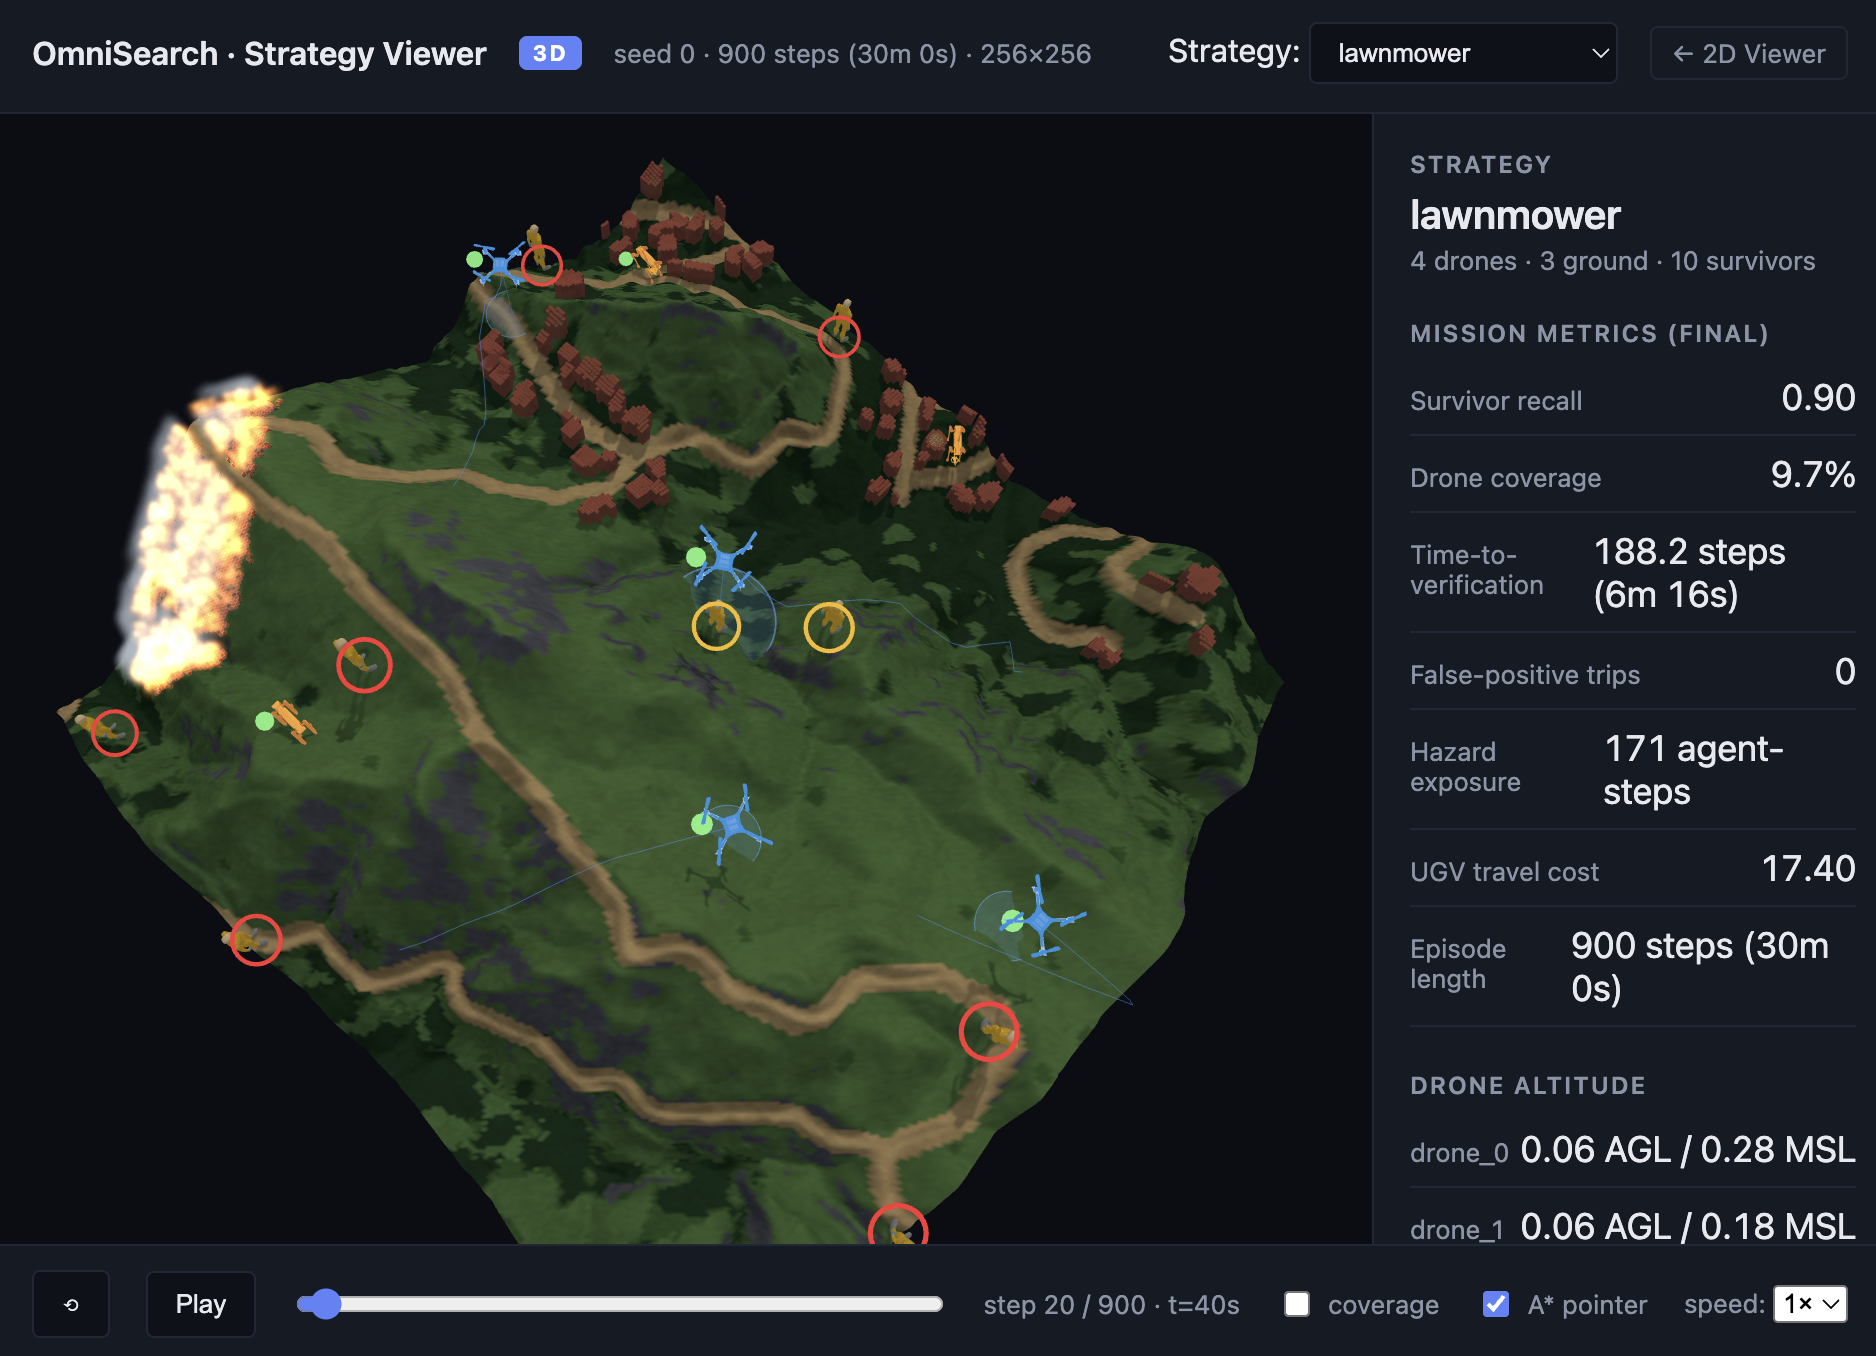
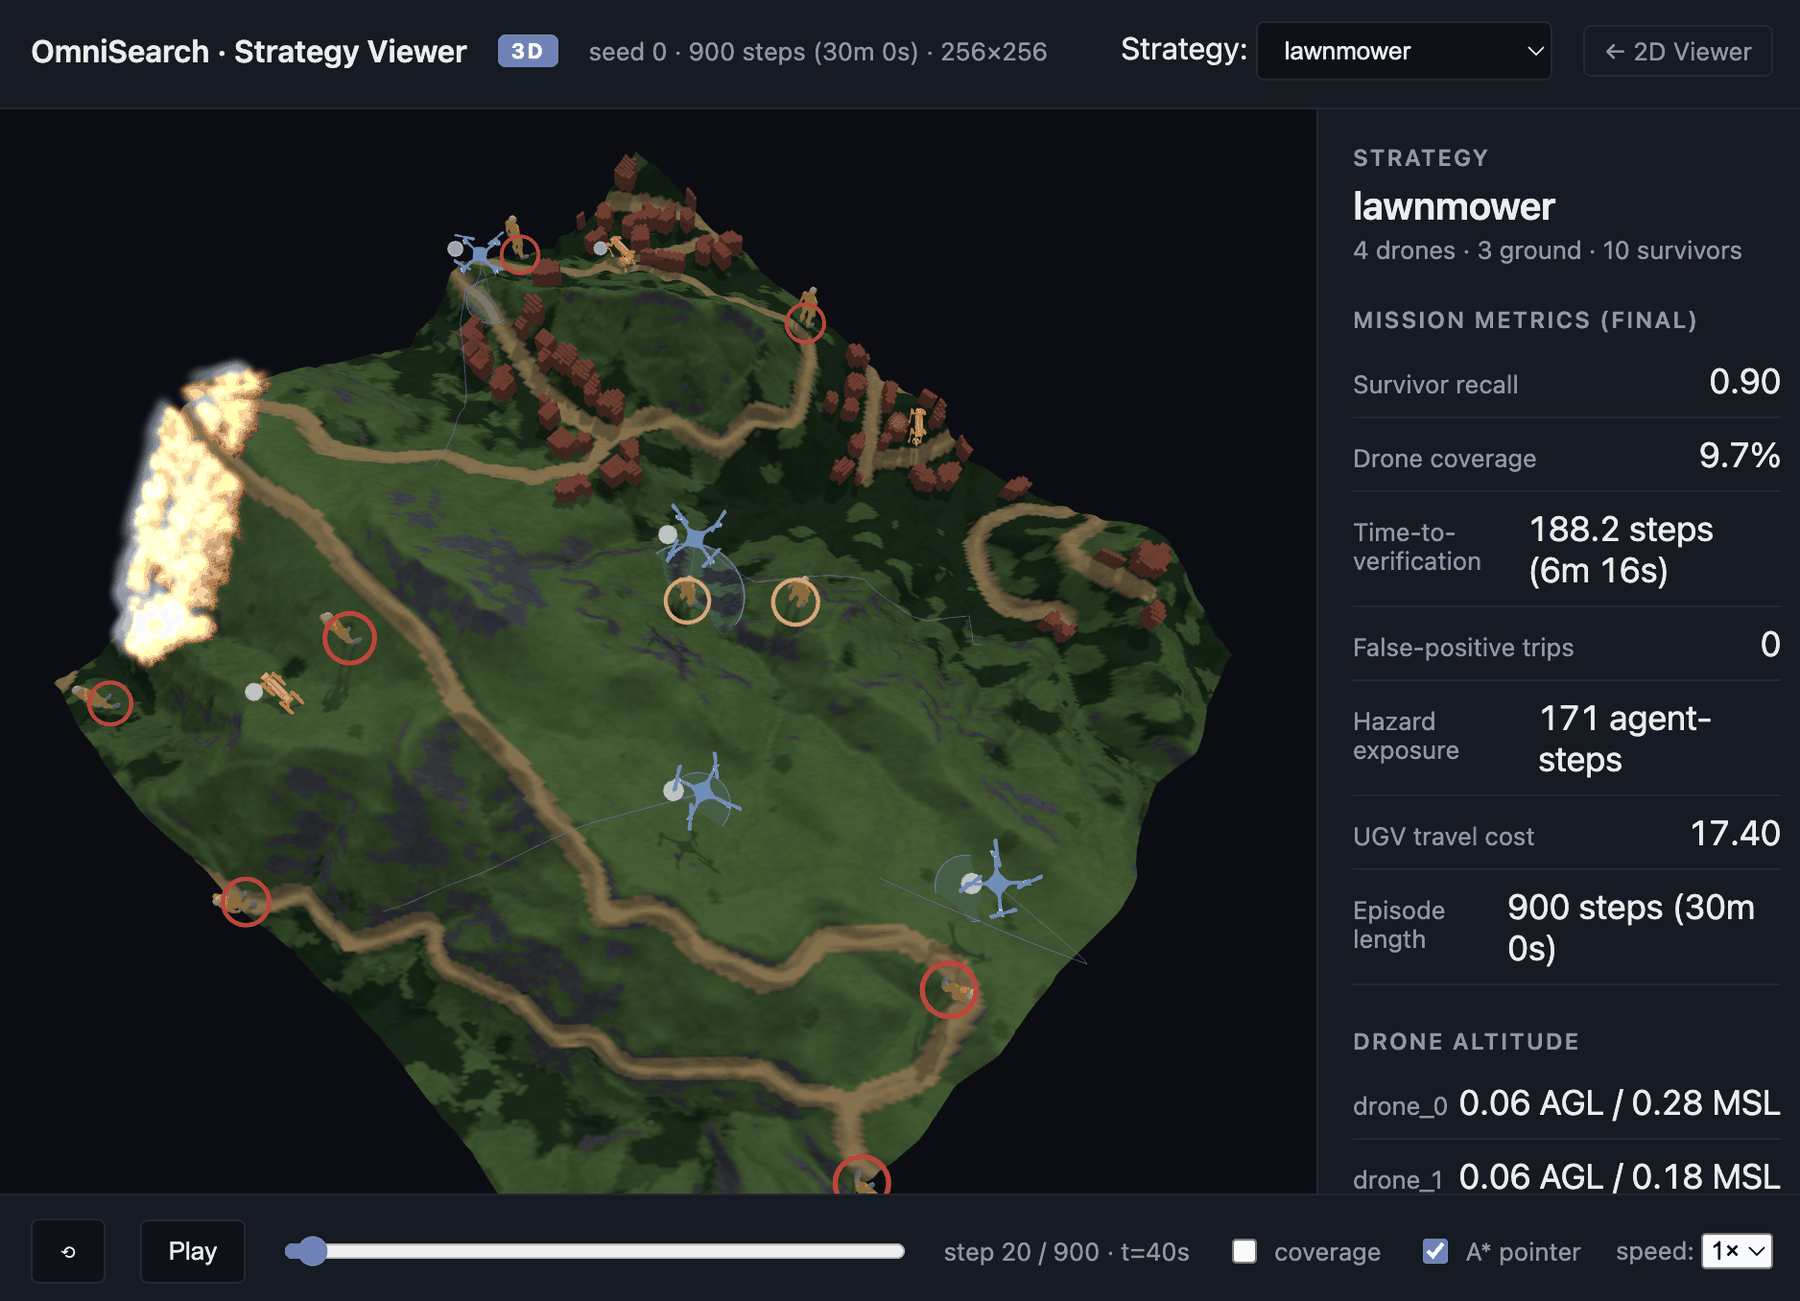
build: static export for Cloudflare Pages
Every route is already static or SSG, so output: "export" gives up
nothing and lets Pages serve plain files. trailingSlash keeps directory
index.html paths resolving on any host.

Static export has no request-time image optimizer, so images.unoptimized
is on and the source screenshots are pre-compressed instead — the
OmniSearch viewer capture drops 1.4 MB to 500 KB, uSport architecture
422 KB to 150 KB, DevDigest 339 KB to 138 KB. Cover dimensions in the
data updated to the new intrinsic sizes.

metadataBase now points at oleksiilavrenin.ai. /out is gitignored.

Verified: 9 routes exported, served from out/ and driven in a browser —
card click-through works, no failed requests, no console errors.

diff --git a/src/data/projects.ts b/src/data/projects.ts
@@ -104,6 +104,8 @@ const omniSearch: Project = {
       alt: "OmniSearch 3D strategy viewer: drones and ground robots searching burning terrain",
       caption:
         "The browser trajectory viewer — 4 UAVs, 3 UGVs, 10 survivors on 1 km² of real Malibu Creek terrain.",
+      width: 1800,
+      height: 1301,
     },
     summary:
       "Wildfire search-and-rescue teams cannot afford to discover coordination failures in the field. OmniSearch pairs a physically scaled wildfire simulator with heterogeneous multi-agent RL so drone + ground-robot deployments can be designed, stress-tested, and tuned before anyone flies.",
@@ -977,8 +979,8 @@ const usport: Project = {
     alt: "uSport.ai system architecture: UI surfaces, API routes, Firebase, Neo4j knowledge graph, vector DB, and the LLM layer",
     caption:
       "The system as it stands: ten product surfaces over four service layers, every agent grounded in the graph.",
-    width: 3488,
-    height: 1580,
+    width: 1800,
+    height: 815,
   },
   summary:
     "uSport.ai matches student-athletes to college coaches. The hard part was never the chat interface — it was building a substrate factual enough that an agent could answer recruiting questions without inventing schools, times, or eligibility rules. That substrate is a Neo4j knowledge graph with 8M+ athletes, 51K coaches, 176K schools, and 15M+ swim results, with seven native vector indexes layered on top for retrieval. I architected and built it from an empty repository.",
@@ -1267,8 +1269,8 @@ const devdigest: Project = {
     alt: "DevDigest studio: a pull-request queue with per-PR score, findings by severity, review status, and run cost",
     caption:
       "The studio's pull-request queue — score, findings by severity, and the run cost of each review. From the design reference for the full product.",
-    width: 2880,
-    height: 1560,
+    width: 1800,
+    height: 975,
   },
   summary:
     "DevDigest reviews pull requests with an LLM, entirely on your own machine. It is also a teaching artifact: a deliberately minimal starter that works end to end on day one, plus eight lessons that each add one real feature back. The design problem running through both is trust — an AI reviewer that invents a line number is worse than no reviewer, so the engine is built so it cannot.",

diff --git a/src/app/layout.tsx b/src/app/layout.tsx
@@ -8,7 +8,7 @@ import { Footer } from "@/components/Footer";
 const geist = Geist({ subsets: ["latin"], variable: "--font-geist-sans" });
 
 export const metadata: Metadata = {
-  metadataBase: new URL("https://oleksiilavrenin.com"),
+  metadataBase: new URL("https://oleksiilavrenin.ai"),
   title: {
     default: "Oleksii Lavrenin — AI / ML Engineer",
     template: "%s · Oleksii Lavrenin",
